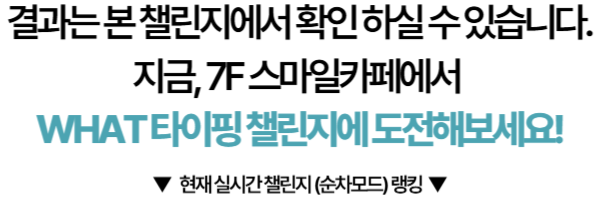
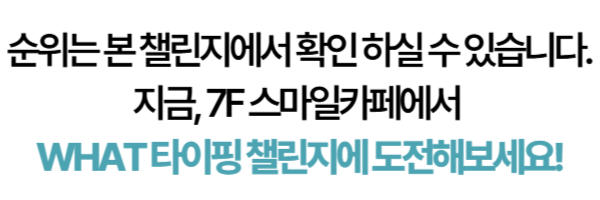
연습모드 결과 변경

diff --git a/src/app/practice-mode/result/page.js b/src/app/practice-mode/result/page.js
@@ -1,81 +1,78 @@
-// ✅ 파일 위치: src/app/practice-mode/result/page.js
 "use client";
 
 import { useEffect, useState } from "react";
+import { useSearchParams } from "next/navigation";
 import { db } from "@/firebase";
-import { collection, query, orderBy, getDocs } from "firebase/firestore";
+import { collection, query, where, orderBy, getDocs } from "firebase/firestore";
 import Image from "next/image";
 import "@/app/globals.css";
 
 export default function PracticeResultPage() {
-  const [rankings, setRankings] = useState([]);
+  const searchParams = useSearchParams();
+  const nameParam = searchParams.get("name");
+  const [record, setRecord] = useState(null);
 
   useEffect(() => {
-    const fetchRankings = async () => {
-      const q = query(collection(db, "records"), orderBy("time", "asc"));
+    if (!nameParam) return;
+
+    const fetchData = async () => {
+      const q = query(
+        collection(db, "records"),
+        where("name", "==", nameParam),
+        where("isPractice", "==", true),
+        orderBy("timestamp", "desc")
+      );
       const snapshot = await getDocs(q);
-      const result = [];
-
-      snapshot.forEach((doc) => {
-        const data = doc.data();
-        if (data.hidden) return;
-        if (data.promptLabel) return; // 순차모드만
-        if (data.isPractice) return;  // 연습모드는 제외
-
-        result.push({ name: data.name, time: data.time });
-      });
-
-      setRankings(result.slice(0, 20));
+      if (!snapshot.empty) {
+        const latest = snapshot.docs[0].data();
+        setRecord(latest);
+      }
     };
+    fetchData();
+  }, [nameParam]);
 
-    fetchRankings();
-  }, []);
+  const totalTime =
+    record?.times?.length > 0
+      ? record.times.reduce((a, b) => a + b, 0).toFixed(2)
+      : null;
 
-  const fullRankings = [
-    ...rankings,
-    ...Array(20 - rankings.length).fill({ name: "", time: null })
-  ];
+  const trimmedName =
+    nameParam && nameParam.length > 6 ? nameParam.slice(0, 6) + "…" : nameParam;
 
   return (
     <div className="results-wrapper">
       <div className="results-layout">
-  <button
-          onClick={() => (window.location.href = "/practice-mode")}
-          className="retry-button"
-        />
-        {/* ✅ 내 기록 대신 홍보 이미지 */}
-       
+        {/* ✅ 헤더 */}
+        <div className="results-header">
+          <p className="result-time">{totalTime ?? "계산 중..."}</p>
+        </div>
+
+        {/* ✅ 순위 텍스트 */}
+        <div className="rank-line-wrapper">
+          <span className="my-rank-name">{trimmedName ?? "참가자"}</span>
+          <img src="/rank-title.png" alt="님의 순위는" className="rank-title" />
+          <span className="rank-number">??</span>
+          <img src="/rank-unit.png" alt="위입니다" className="rank-unit" />
+        </div>
+
+        {/* ✅ 홍보 이미지 */}
+        <div style={{ marginTop: "40px" }}>
           <Image
-            src="/practice-promo.png" // ⬅ "7F에서 도전해보세요" 이미지
+            src="/practice-promo.png"
             alt="도전 안내"
             width={600}
             height={200}
-            
-            style={{ objectFit: "cover", marginTop: "30px" }}
+            style={{ objectFit: "cover" }}
           />
-      
-        {/* ✅ 실제 순차모드 랭킹 출력 */}
-        <div className="top20-container">
-          {fullRankings.map((record, index) => (
-            <div
-              key={index}
-              className={`rank-row ${index < 4 ? "top4-highlight" : ""}`}
-            >
-              <div
-                className="rank-image"
-                style={{ backgroundImage: `url(/ranks/rank-${index + 1}.png)` }}
-              />
-              <div className="top20-rank-name">{record.name || "\u00A0"}</div>
-              <div className="rank-time">
-                {record.time !== null ? `${record.time.toFixed(2)}초` : "\u00A0"}
-              </div>
-            </div>
-          ))}
         </div>
 
+        {/* ✅ 다시 도전 버튼 */}
         <button
-          onClick={() => (window.location.href = "/practice-mode")}
           className="retry-button"
+          style={{ marginTop: "40px" }}
+          onClick={() => {
+            window.location.href = "/practice-mode";
+          }}
         />
       </div>
     </div>

diff --git a/src/app/practice-mode/challenge/page.js b/src/app/practice-mode/challenge/page.js
@@ -90,7 +90,7 @@ function ChallengeContent() {
       isPractice: true,
       hidden: true
     });
-    router.push("/practice-mode/result");
+    router.push(`/practice-mode/result?name=${encodeURIComponent(name)}`);
   };
 
   return (
